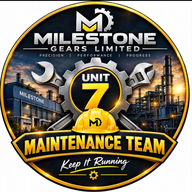
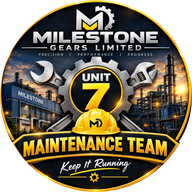
Add files via upload

diff --git a/index.html b/index.html
@@ -8,7 +8,8 @@
 <meta name="apple-mobile-web-app-capable" content="yes">
 <meta name="apple-mobile-web-app-title" content="HTP Maintenance">
 <link rel="manifest" href="manifest.webmanifest">
-<link rel="icon" type="image/png" href="icon-192.png">
+<link rel="icon" type="image/png" sizes="32x32" href="favicon-32.png">
+<link rel="icon" type="image/png" sizes="192x192" href="icon-192.png">
 <link rel="apple-touch-icon" href="apple-touch-icon.png">
 <script>if('serviceWorker' in navigator&&/^https?:$/.test(location.protocol)){window.addEventListener('load',function(){navigator.serviceWorker.register('sw.js').then(function(r){try{r.update()}catch(e){}}).catch(function(e){console.warn('SW',e)})})}</script>
 <title>Milestone Gear Ltd. Unit-7 | Maintenance & Utility Daily Log</title>

diff --git a/sw.js b/sw.js
@@ -1,6 +1,6 @@
 /* HTP MMS service worker - app shell offline. Version badlo jab files update karo. */
-const CACHE = 'htp-mms-v10-all-modules-sync';
-const SHELL = ['./', './index.html', './manifest.webmanifest', './icon-192.png', './icon-512.png', './icon-maskable-512.png', './apple-touch-icon.png'];
+const CACHE = 'htp-mms-v11-new-icons';
+const SHELL = ['./', './index.html', './manifest.webmanifest', './favicon-32.png', './icon-192.png', './icon-512.png', './icon-maskable-512.png', './apple-touch-icon.png'];
 
 self.addEventListener('install', function (e) {
   e.waitUntil(caches.open(CACHE).then(function (c) { return c.addAll(SHELL); }).then(function () { return self.skipWaiting(); }));
